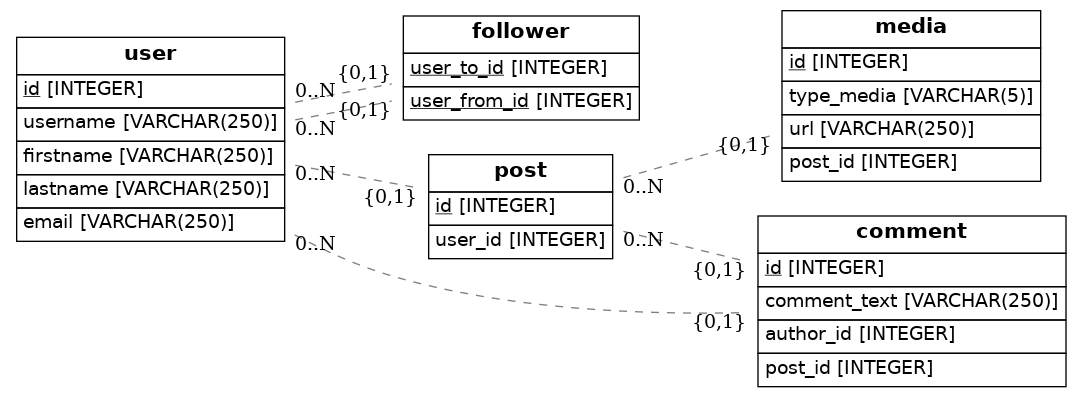
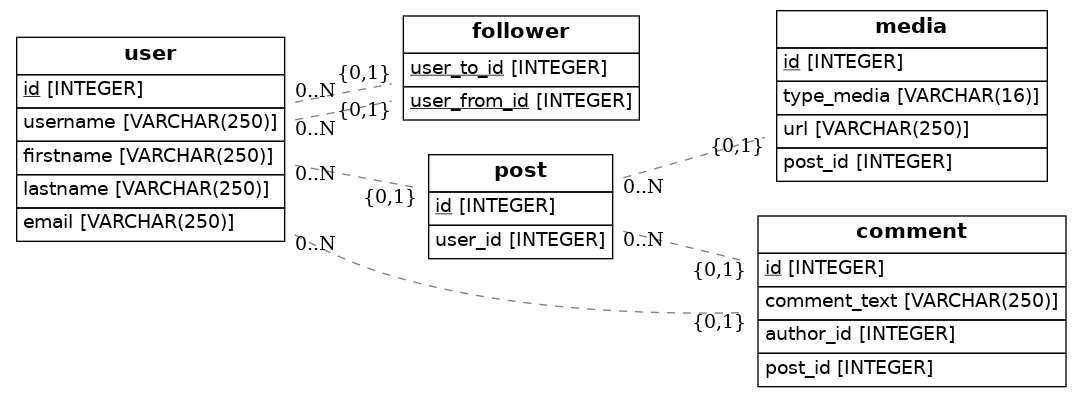
enum final

Changed region(s): [[0.6411, 0.0302, 0.9769, 0.4534]]

diff --git a/src/models.py b/src/models.py
@@ -12,8 +12,9 @@ Base = declarative_base()
 
 class MyEnum(enum.Enum):
     IMAGES = 'jpg'
+    IMAGESPNG = 'png'
     VIDEO = 'mp4'
-    
+
 class User(Base):
     __tablename__ = 'user'    
     id = Column(Integer, primary_key=True)
@@ -37,7 +38,7 @@ class Post(Base):
 class Media(Base):
     __tablename__ = 'media'
     id = Column(Integer, primary_key = True)
-    type_media = Column(Enum(MyEnum))
+    type_media = Column(Enum( 'img', 'mp4', 'mp3' ))
     url = Column(String(250))
     post_id = Column( Integer , ForeignKey('post.id'))
     post = relationship(Post)
@@ -49,7 +50,7 @@ class Comment(Base):
     author_id = Column(Integer, ForeignKey('user.id'))
     post_id = Column(Integer, ForeignKey('post.id'))
     post = relationship(Post)
-    user = relationship(User)
+    user = relationship(User)  
 
     def to_dict(self):
         return {}
